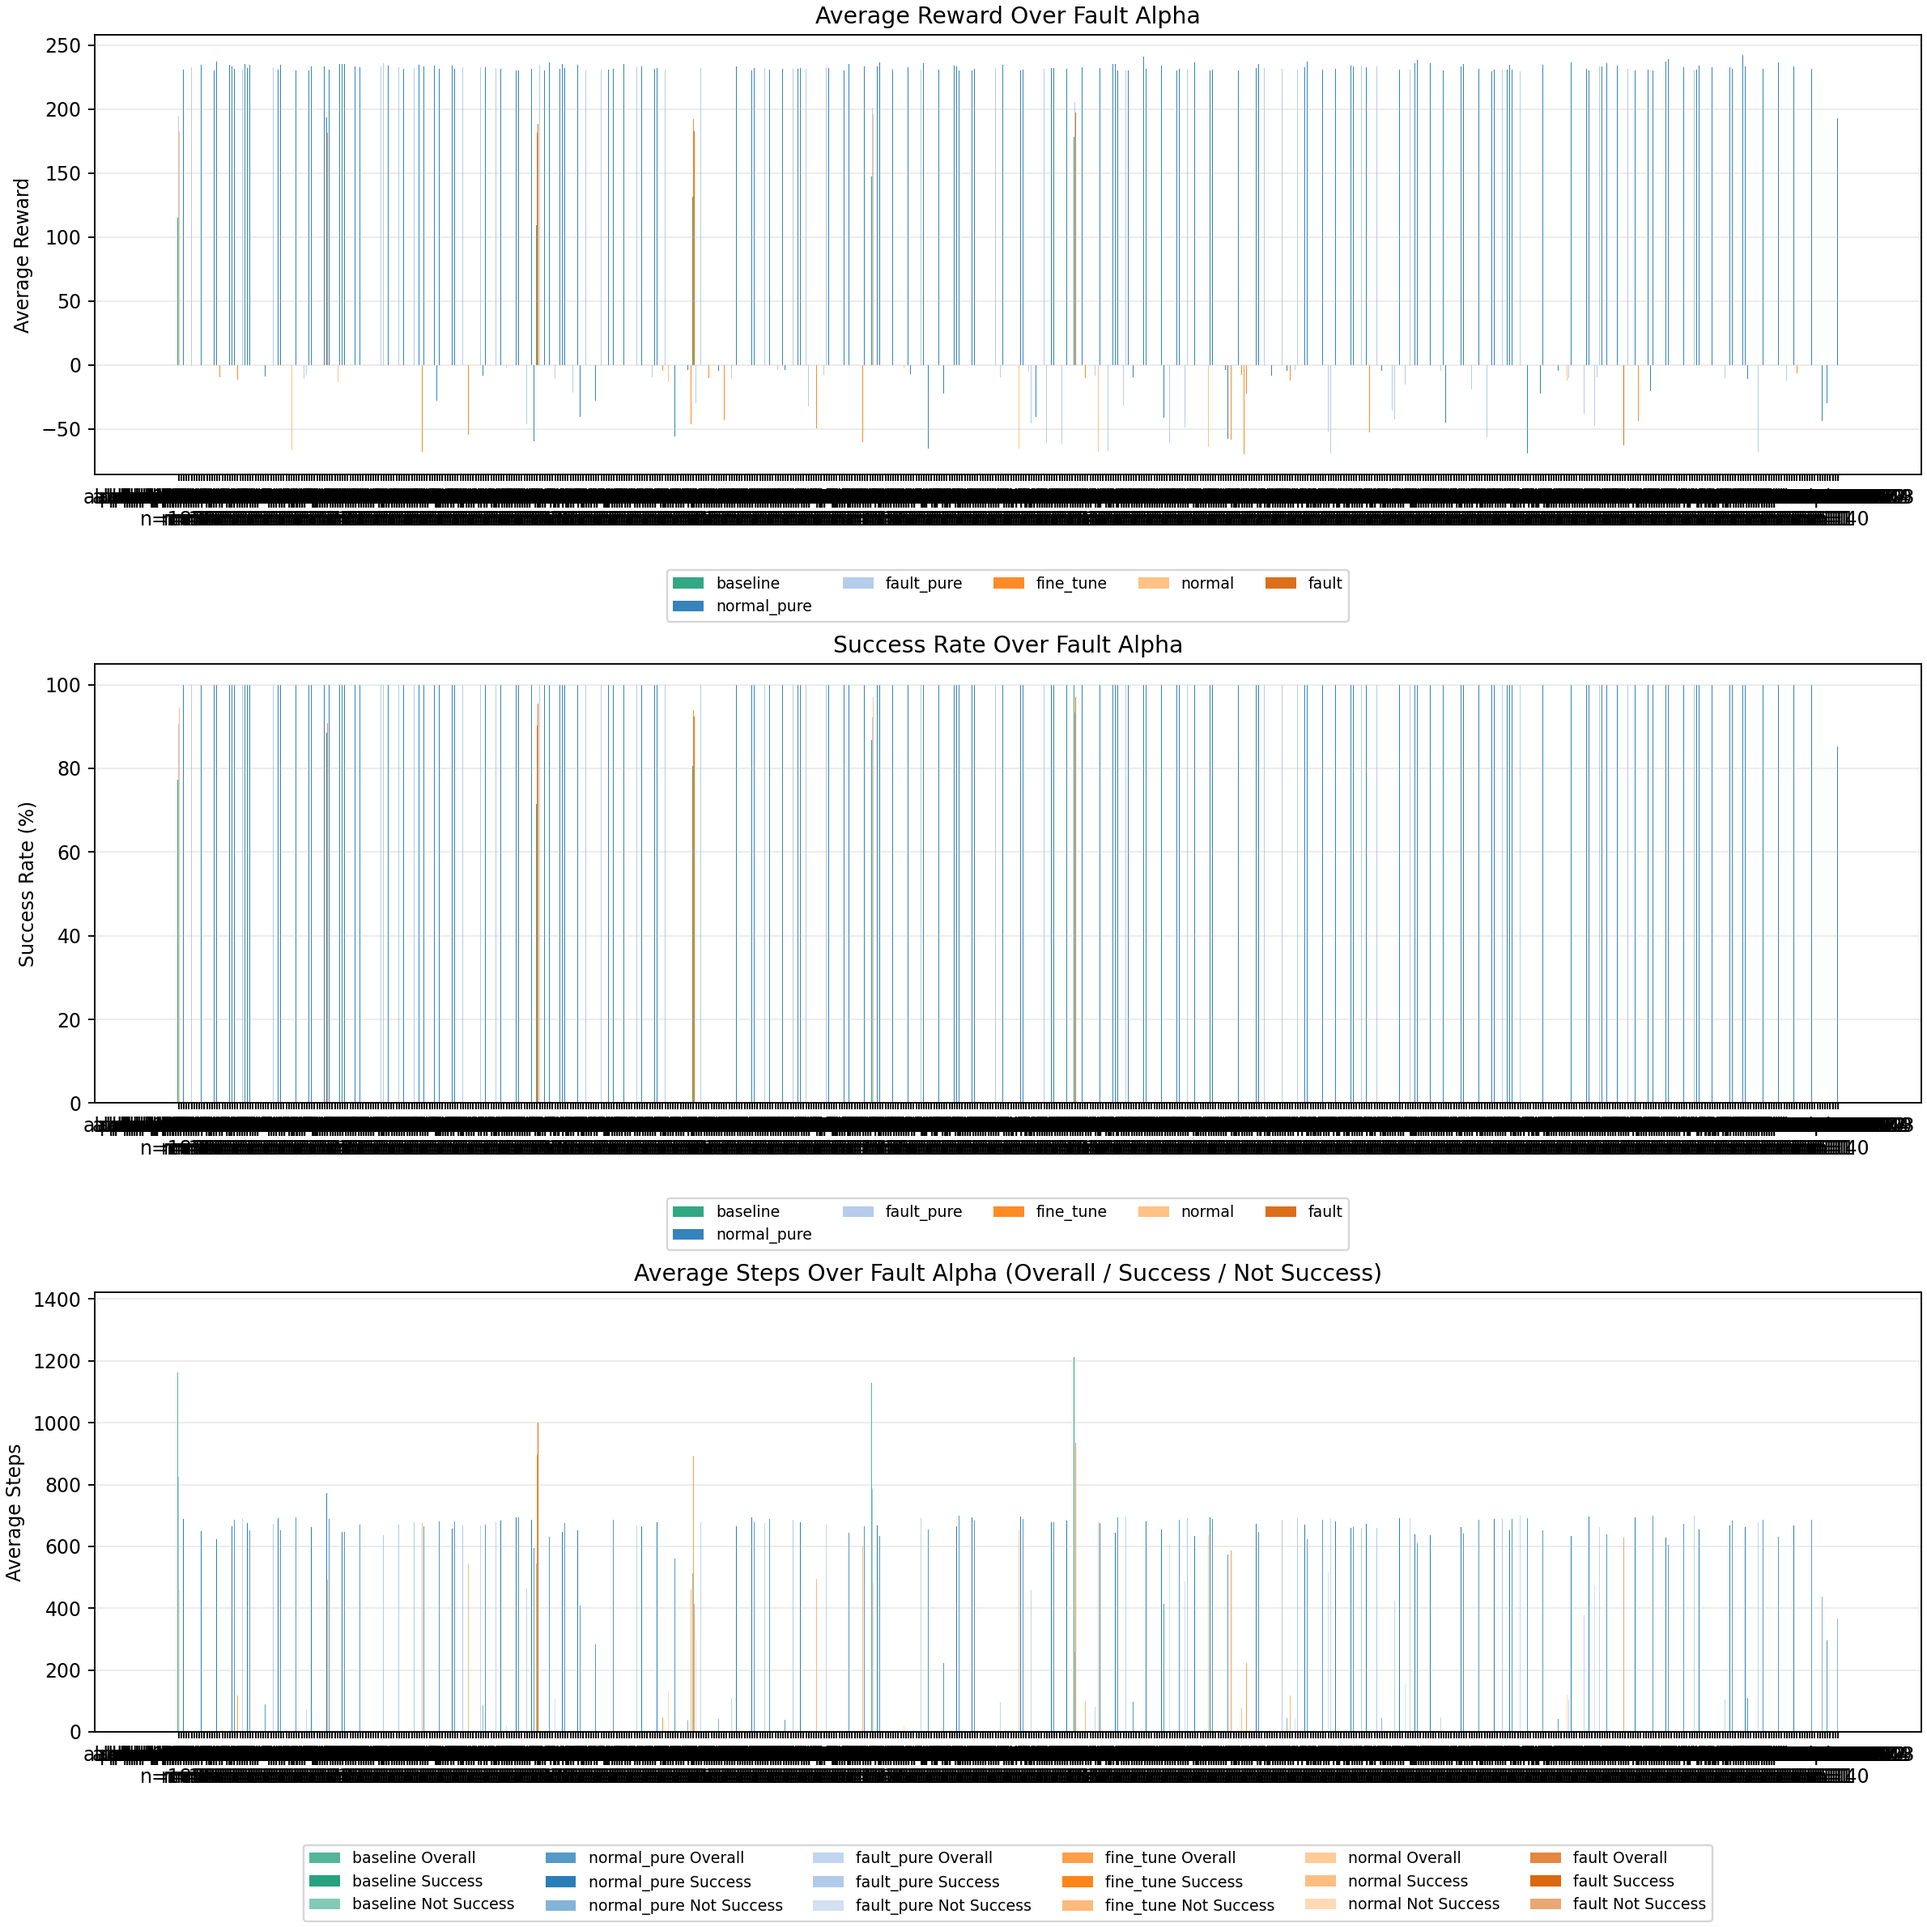
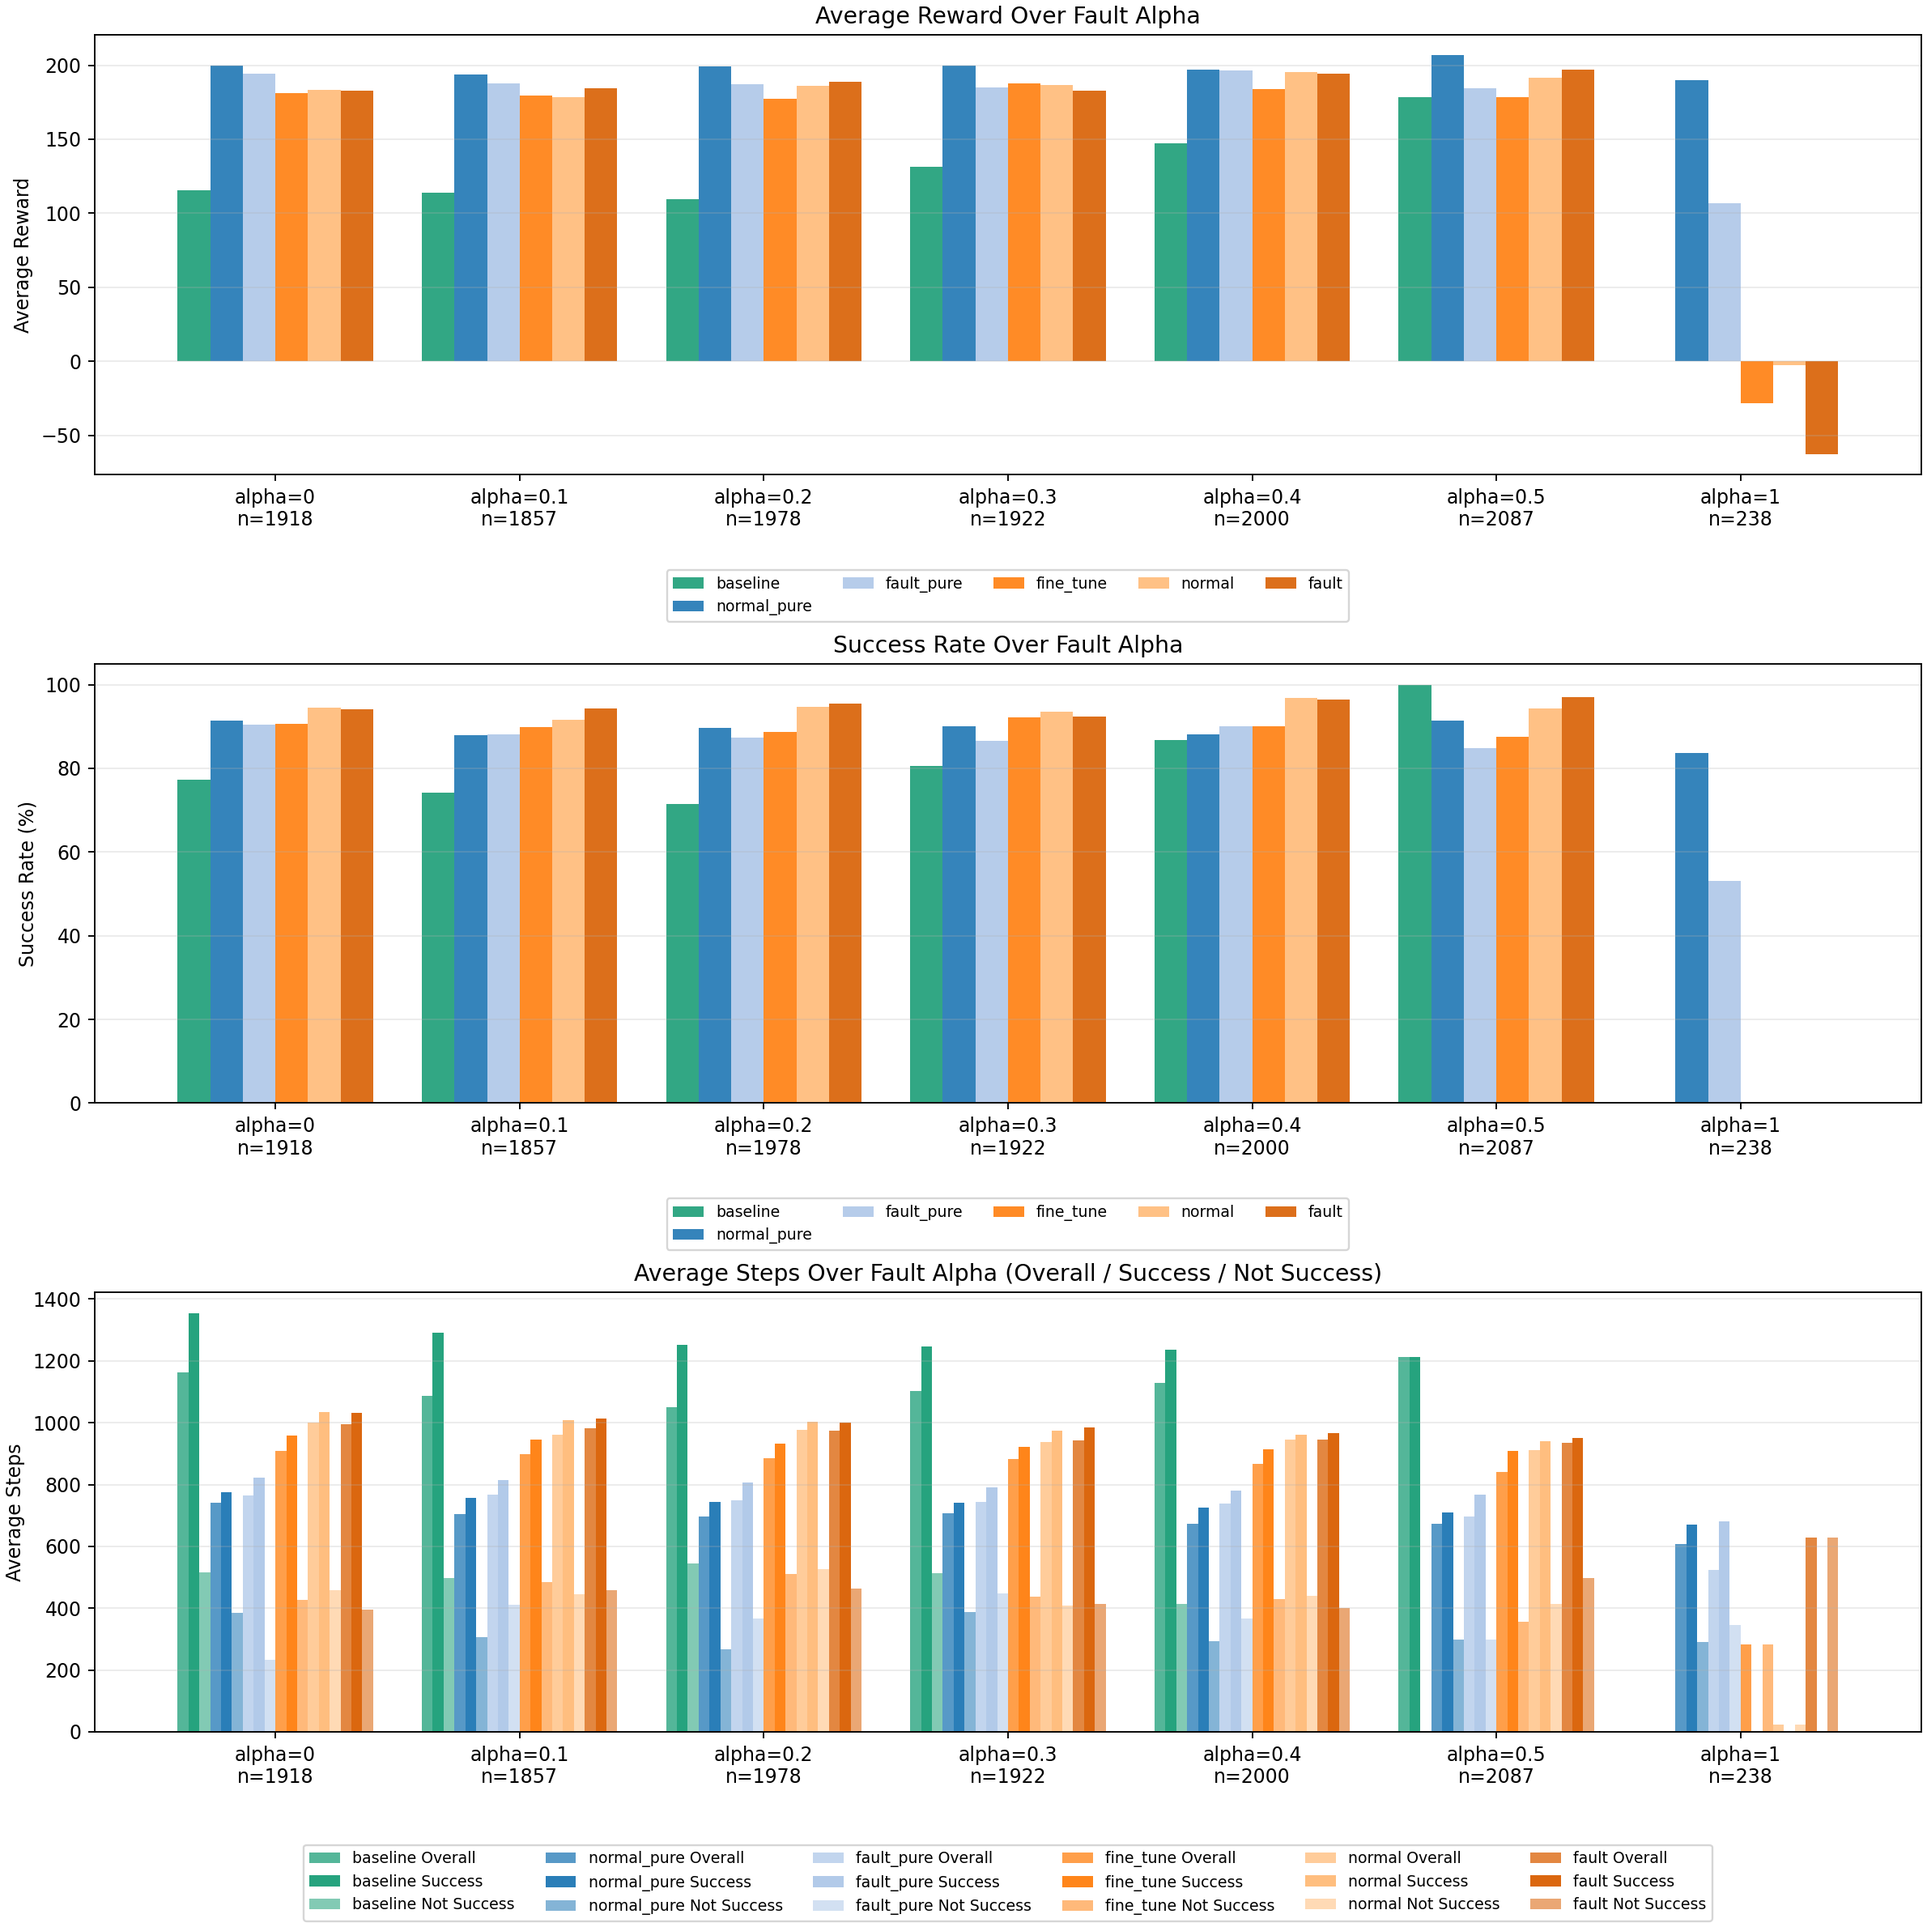
eval logs

diff --git a/eval_logs/eval_grapher.py b/eval_logs/eval_grapher.py
@@ -53,6 +53,21 @@ def _read_eval_log(path: Path):
             except (TypeError, ValueError):
                 continue
 
+            # Normalize alpha to the canonical evaluation bins: 0.0,0.1,...,0.5
+            # This prevents continuous/training-sampled alphas from creating
+            # hundreds of x-axis categories in the grapher.
+            try:
+                alpha = round(float(alpha), 1)
+            except Exception:
+                alpha = float(alpha)
+            # clamp to expected eval range [0.0, 0.5]
+            if alpha < 0.0:
+                alpha = 0.0
+            if alpha > 0.8:
+                alpha = 1.0
+            elif alpha > 0.5:
+                alpha = 0.5
+
             rows.append(
                 {
                     "alpha": alpha,

diff --git a/main.py b/main.py
@@ -155,7 +155,7 @@ def main():
                         fin_steps,
                         episode_rewards[i],
                         int(damaged_wheel) if damaged_wheel is not None else -1,
-                        float(fault_alpha) if fault_alpha is not None else np.nan,
+                        (round(float(fault_alpha), 2) if fault_alpha is not None else np.nan),
                         damaged_wheels_str if damaged_wheels_str else '',
                         fault_alphas_str if fault_alphas_str else '',
                         int(success)
